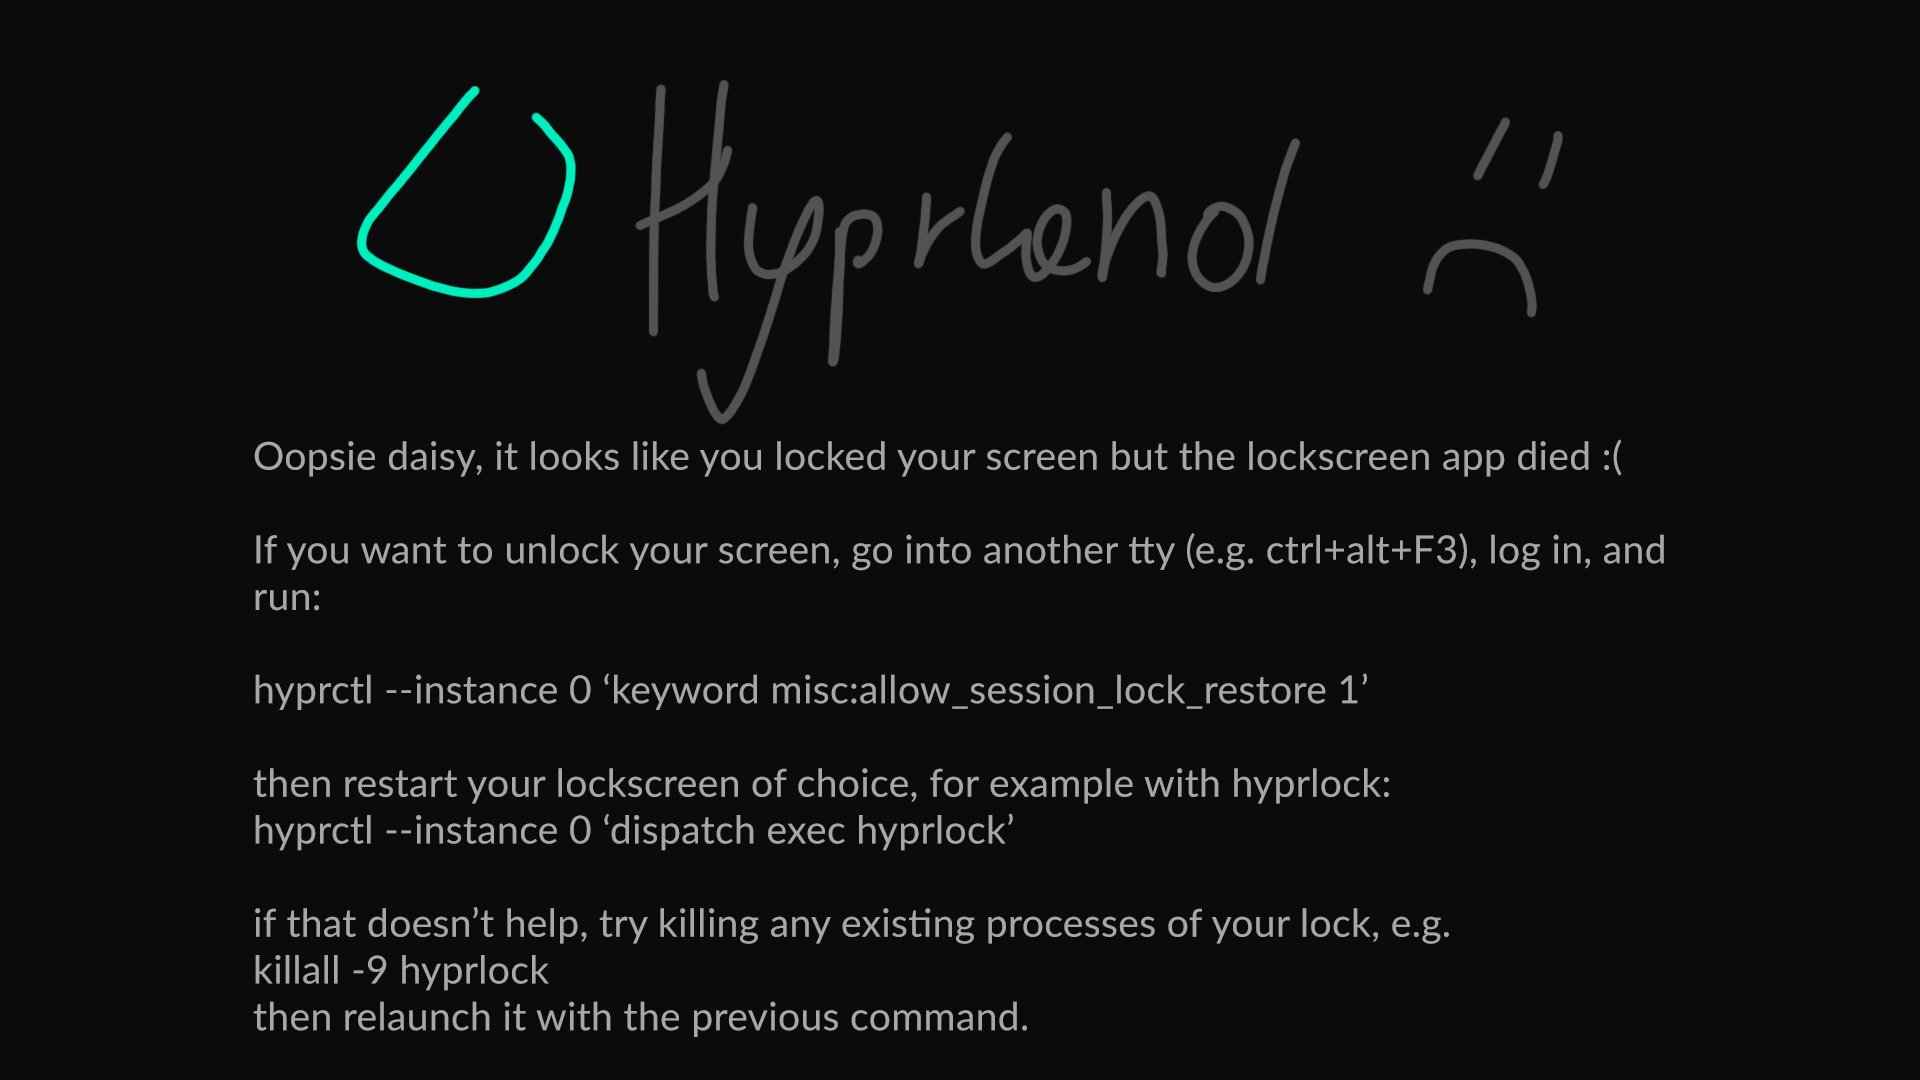
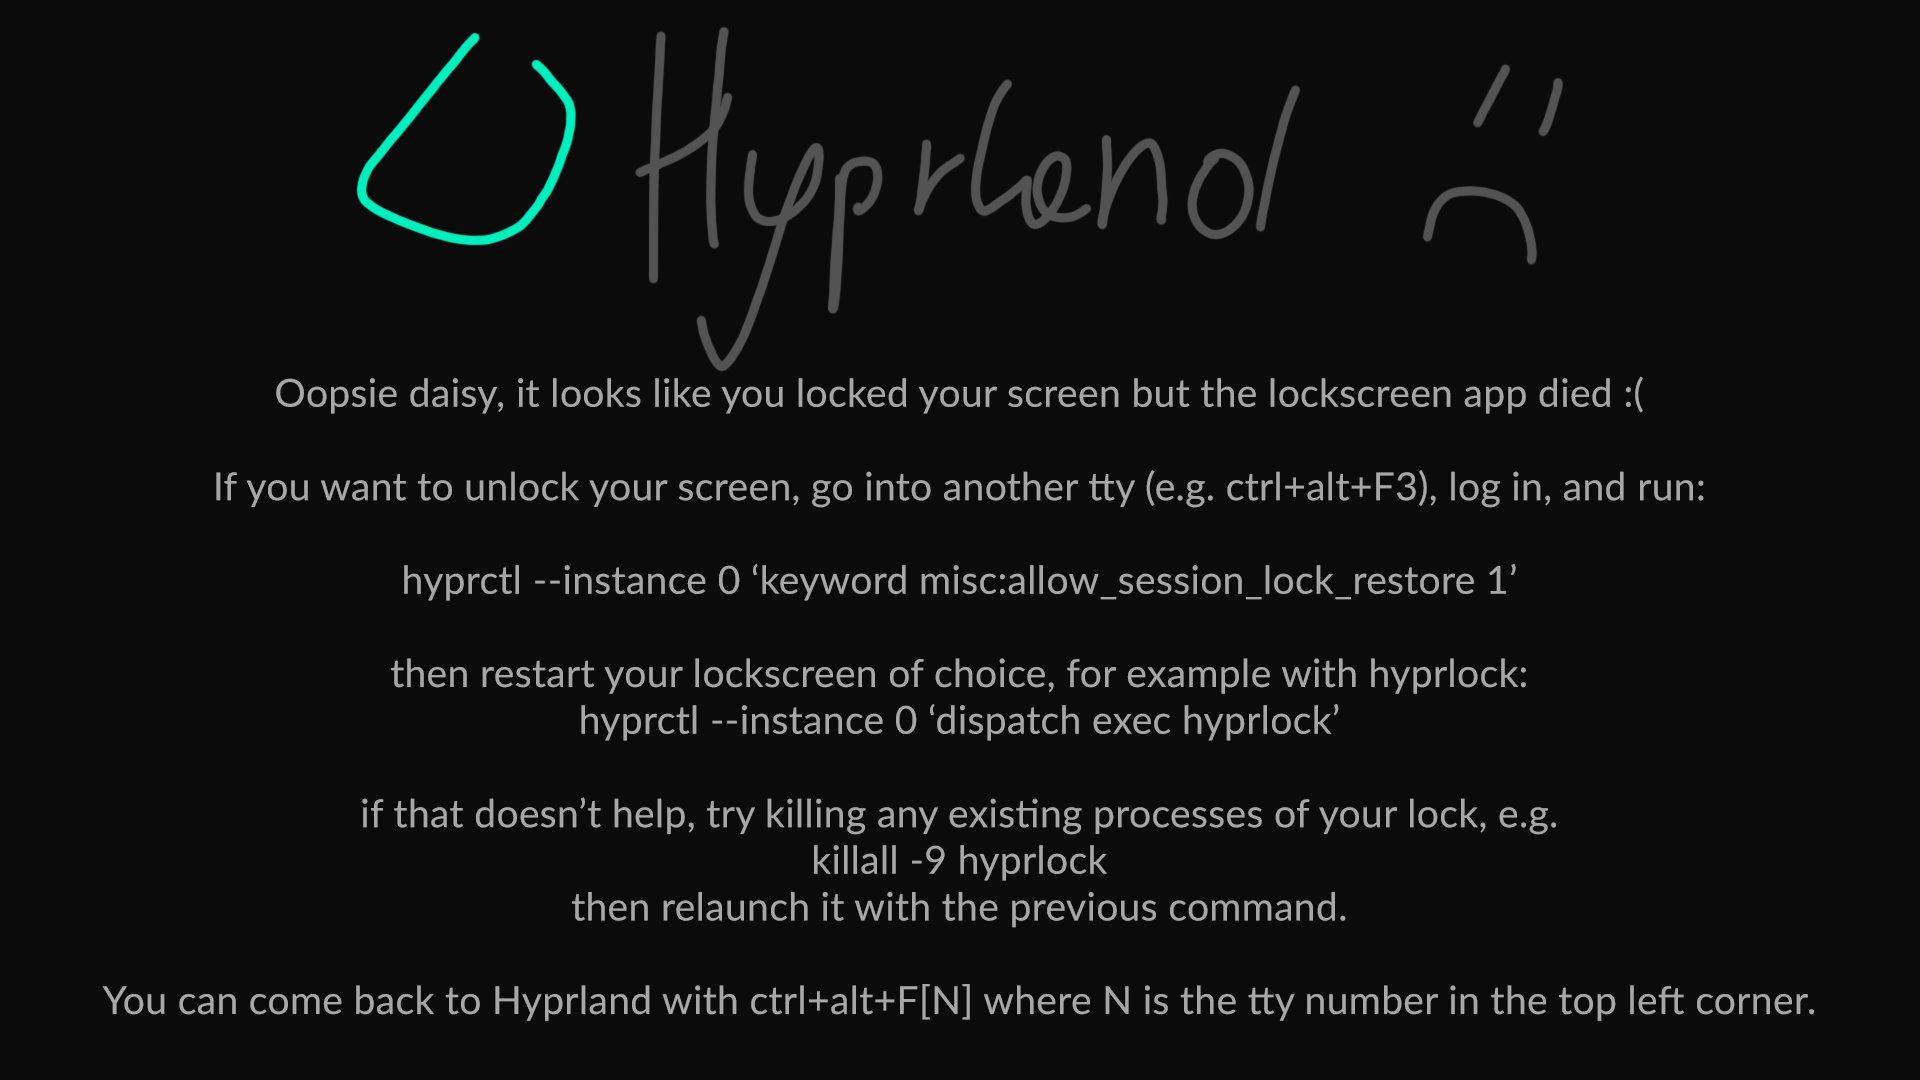
improve

diff --git a/src/render/OpenGL.cpp b/src/render/OpenGL.cpp
@@ -2655,6 +2655,82 @@ SP<CTexture> CHyprOpenGLImpl::loadAsset(const std::string& file) {
     return tex;
 }
 
+SP<CTexture> CHyprOpenGLImpl::renderText(const std::string& text, CColor col, int pt, bool italic) {
+    SP<CTexture>          tex = makeShared<CTexture>();
+
+    static auto           FONT = CConfigValue<std::string>("misc:font_family");
+
+    const auto            FONTFAMILY = *FONT;
+    const auto            FONTSIZE   = pt;
+    const auto            COLOR      = col;
+
+    auto                  CAIROSURFACE = cairo_image_surface_create(CAIRO_FORMAT_ARGB32, 1920, 1080 /* arbitrary, just for size */);
+    auto                  CAIRO        = cairo_create(CAIROSURFACE);
+
+    PangoLayout*          layoutText = pango_cairo_create_layout(CAIRO);
+    PangoFontDescription* pangoFD    = pango_font_description_new();
+
+    pango_font_description_set_family_static(pangoFD, FONTFAMILY.c_str());
+    pango_font_description_set_absolute_size(pangoFD, FONTSIZE * PANGO_SCALE);
+    pango_font_description_set_style(pangoFD, italic ? PANGO_STYLE_ITALIC : PANGO_STYLE_NORMAL);
+    pango_font_description_set_weight(pangoFD, PANGO_WEIGHT_NORMAL);
+    pango_layout_set_font_description(layoutText, pangoFD);
+
+    cairo_set_source_rgba(CAIRO, COLOR.r, COLOR.g, COLOR.b, COLOR.a);
+
+    int textW = 0, textH = 0;
+    pango_layout_set_text(layoutText, text.c_str(), -1);
+    pango_layout_get_size(layoutText, &textW, &textH);
+    textW /= PANGO_SCALE;
+    textH /= PANGO_SCALE;
+
+    pango_font_description_free(pangoFD);
+    g_object_unref(layoutText);
+    cairo_destroy(CAIRO);
+    cairo_surface_destroy(CAIROSURFACE);
+
+    CAIROSURFACE = cairo_image_surface_create(CAIRO_FORMAT_ARGB32, textW, textH);
+    CAIRO        = cairo_create(CAIROSURFACE);
+
+    layoutText = pango_cairo_create_layout(CAIRO);
+    pangoFD    = pango_font_description_new();
+
+    pango_font_description_set_family_static(pangoFD, FONTFAMILY.c_str());
+    pango_font_description_set_absolute_size(pangoFD, FONTSIZE * PANGO_SCALE);
+    pango_font_description_set_style(pangoFD, italic ? PANGO_STYLE_ITALIC : PANGO_STYLE_NORMAL);
+    pango_font_description_set_weight(pangoFD, PANGO_WEIGHT_NORMAL);
+    pango_layout_set_font_description(layoutText, pangoFD);
+    pango_layout_set_text(layoutText, text.c_str(), -1);
+
+    cairo_set_source_rgba(CAIRO, COLOR.r, COLOR.g, COLOR.b, COLOR.a);
+
+    cairo_move_to(CAIRO, 0, 0);
+    pango_cairo_show_layout(CAIRO, layoutText);
+
+    pango_font_description_free(pangoFD);
+    g_object_unref(layoutText);
+
+    cairo_surface_flush(CAIROSURFACE);
+
+    tex->allocate();
+    tex->m_vSize = {cairo_image_surface_get_width(CAIROSURFACE), cairo_image_surface_get_height(CAIROSURFACE)};
+
+    const auto DATA = cairo_image_surface_get_data(CAIROSURFACE);
+    glBindTexture(GL_TEXTURE_2D, tex->m_iTexID);
+    glTexParameteri(GL_TEXTURE_2D, GL_TEXTURE_MAG_FILTER, GL_LINEAR);
+    glTexParameteri(GL_TEXTURE_2D, GL_TEXTURE_MIN_FILTER, GL_LINEAR);
+#ifndef GLES2
+    glTexParameteri(GL_TEXTURE_2D, GL_TEXTURE_SWIZZLE_R, GL_BLUE);
+    glTexParameteri(GL_TEXTURE_2D, GL_TEXTURE_SWIZZLE_B, GL_RED);
+#endif
+    glTexImage2D(GL_TEXTURE_2D, 0, GL_RGBA, tex->m_vSize.x, tex->m_vSize.y, 0, GL_RGBA, GL_UNSIGNED_BYTE, DATA);
+
+    cairo_destroy(CAIRO);
+    cairo_surface_destroy(CAIROSURFACE);
+
+    return tex;
+}
+
 void CHyprOpenGLImpl::initAssets() {
     std::string assetsPath = "";
 #ifndef DATAROOTDIR
@@ -2665,6 +2741,12 @@ void CHyprOpenGLImpl::initAssets() {
 
     m_pLockDeadTexture  = loadAsset(assetsPath + "lockdead.png");
     m_pLockDead2Texture = loadAsset(assetsPath + "lockdead2.png");
+
+    m_pLockTtyTextTexture = renderText(std::format("Running on tty {}",
+                                                   g_pCompositor->m_pAqBackend->hasSession() && g_pCompositor->m_pAqBackend->session->vt > 0 ?
+                                                       std::to_string(g_pCompositor->m_pAqBackend->session->vt) :
+                                                       "unknown"),
+                                       CColor{0.9F, 0.9F, 0.9F, 0.7F}, 20, true);
 }
 
 void CHyprOpenGLImpl::createBGTextureForMonitor(CMonitor* pMonitor) {

diff --git a/src/render/Renderer.cpp b/src/render/Renderer.cpp
@@ -999,7 +999,6 @@ void CHyprRenderer::renderLockscreen(CMonitor* pMonitor, timespec* now, const CB
 
     if (g_pSessionLockManager->isSessionLocked()) {
         Vector2D   translate = {geometry.x, geometry.y};
-        float      scale     = (float)geometry.width / pMonitor->vecPixelSize.x;
 
         const auto PSLS = g_pSessionLockManager->getSessionLockSurfaceForMonitor(pMonitor->ID);
         if (!PSLS)
@@ -1026,9 +1025,15 @@ void CHyprRenderer::renderSessionLockMissing(CMonitor* pMonitor) {
             g_pHyprOpenGL->renderRect(&monbox, CColor(1.0, 0.2, 0.2, ALPHA));
     } else {
         // render image, with instructions. Lock is gone.
-        if (g_pHyprOpenGL->m_pLockDeadTexture)
+        if (g_pHyprOpenGL->m_pLockDeadTexture) {
             g_pHyprOpenGL->renderTexture(g_pHyprOpenGL->m_pLockDeadTexture, &monbox, ALPHA);
-        else
+
+            // also render text for the tty number
+            if (g_pHyprOpenGL->m_pLockTtyTextTexture) {
+                CBox texbox = {{}, g_pHyprOpenGL->m_pLockTtyTextTexture->m_vSize};
+                g_pHyprOpenGL->renderTexture(g_pHyprOpenGL->m_pLockTtyTextTexture, &texbox, 1.F);
+            }
+        } else
             g_pHyprOpenGL->renderRect(&monbox, CColor(1.0, 0.2, 0.2, ALPHA));
     }
 

diff --git a/src/render/OpenGL.hpp b/src/render/OpenGL.hpp
@@ -277,7 +277,7 @@ class CHyprOpenGLImpl {
     CShader                 m_sFinalScreenShader;
     CTimer                  m_tGlobalTimer;
 
-    SP<CTexture>            m_pBackgroundTexture, m_pLockDeadTexture, m_pLockDead2Texture;
+    SP<CTexture>            m_pBackgroundTexture, m_pLockDeadTexture, m_pLockDead2Texture, m_pLockTtyTextTexture;
 
     void                    logShaderError(const GLuint&, bool program = false);
     GLuint                  createProgram(const std::string&, const std::string&, bool dynamic = false);
@@ -288,6 +288,7 @@ class CHyprOpenGLImpl {
     void                    initEGL(bool gbm);
     EGLDeviceEXT            eglDeviceFromDRMFD(int drmFD);
     SP<CTexture>            loadAsset(const std::string& file);
+    SP<CTexture>            renderText(const std::string& text, CColor col, int pt, bool italic = false);
     void                    initAssets();
 
     //
